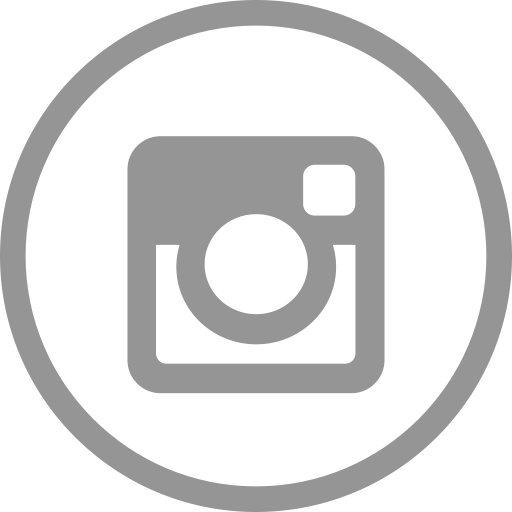
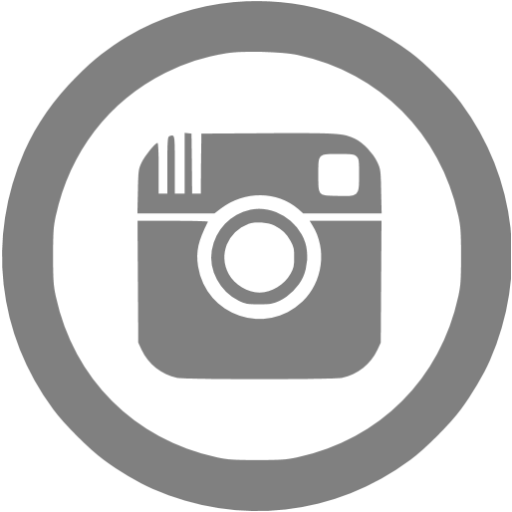
added javaScript

diff --git a/index.html b/index.html
@@ -3,7 +3,7 @@
 <head>
   <meta charset="UTF-8">
   <title>Himanshu</title>
-  <link rel="shortcut icon" type="image/jpg" href="icons/profile.jpg"/>
+  <link rel="shortcut icon" type="image/jpg" href="icons/favicon3.jpg"/>
   <!--
   <link href='//cdn.jsdelivr.net/devicons/1.8.0/css/devicons.min.css' rel='stylesheet'>
   <link rel="stylesheet" href="https://cdnjs.cloudflare.com/ajax/libs/meyer-reset/2.0/reset.min.css">
@@ -28,40 +28,38 @@
   <div class="badgescard"> 
     <span class="devicons github">
       <a href="https://github.com/Himanshu4746/" target="_blank">
-        <img src="icons/github.png">
+        <img src="icons/github.png" alt="github"  id="github" onmouseover="colorImg(this)" onmouseout="grayscaleImg(this)">
       </a>
     </span>
     <span class="devicons linkedin">
       <a href="https://www.linkedin.com/in/himanshu4746/" target="_blank">
-        <img src="icons/linkedin.png">
+        <img src="icons/linkedin.png" alt="linkedin" id="linkedin" onmouseover="colorImg(this)" onmouseout="grayscaleImg(this)">
       </a>
     </span>
     <span class="devicons stackoverflow">
       <a href="https://stackoverflow.com/users/6887921/himanshu-kumar/" target="_blank">
-        <img src="icons/stackoverflow.png">
+        <img src="icons/stackoverflow.png" alt="stackoverflow" id="stackoverflow" onmouseover="colorImg(this)" onmouseout="grayscaleImg(this)">
       </a>
     </span>
     <span class="devicons facebook">
       <a href="https://www.facebook.com/himanshu4746/" target="_blank">
-        <img src="icons/facebook.png">
+        <img src="icons/facebook.png" alt="facebook" id="facebook" onmouseover="colorImg(this)" onmouseout="grayscaleImg(this)">
       </a>
     </span>
     <span class="devicons instagram">
       <a href="https://www.instagram.com/himanshu4746_/" target="_blank">
-        <img src="icons/instagram.png">
+        <img src="icons/instagram.png" alt="instagram" id="instagram" onmouseover="colorImg(this)" onmouseout="grayscaleImg(this)">
       </a>
     </span>
     <span class="devicons twitter">
       <a href="https://twitter.com/himanshu4746/" target="_blank">
-        <img src="icons/twitter.png">
+        <img src="icons/twitter.png" alt="twitter" id="twitter" onmouseover="colorImg(this)" onmouseout="grayscaleImg(this)">
       </a>
     </span>
   </div>
 </div>
   
-<!--
   <script  src="js/index.js"></script>
--->
 
 </body>
 </html>

diff --git a/css/style.css b/css/style.css
@@ -64,7 +64,13 @@ body {
   margin: 0px 6px;
   opacity: 0.6;
 }
-
+.devicons img{
+  top: 10px;
+  width: 30px;
+  height: 30px;
+  position: relative;
+  border: 5px;
+}
 .firstinfo {
   flex-direction: row;
   z-index: 2;
@@ -91,13 +97,6 @@ body {
   color: #5A5A5A;
   line-height: 1.2;
   font-style: initial;
-}
-.devicons img{
-  top: 10px;
-  width: 30px;
-  height: 30px;
-  position: relative;
-  border: 5px;
 }
 @keyframes animatop {
   0% {

diff --git a/js/index.js b/js/index.js
@@ -1,1 +1,9 @@
-// Create a profile UI.
+function colorImg(x) {
+	var s = "icons/"+x.id+"Color.png";
+    x.src = s;
+}
+
+function grayscaleImg(x) {
+	var s = "icons/"+x.id+".png";
+    x.src = s;
+}
